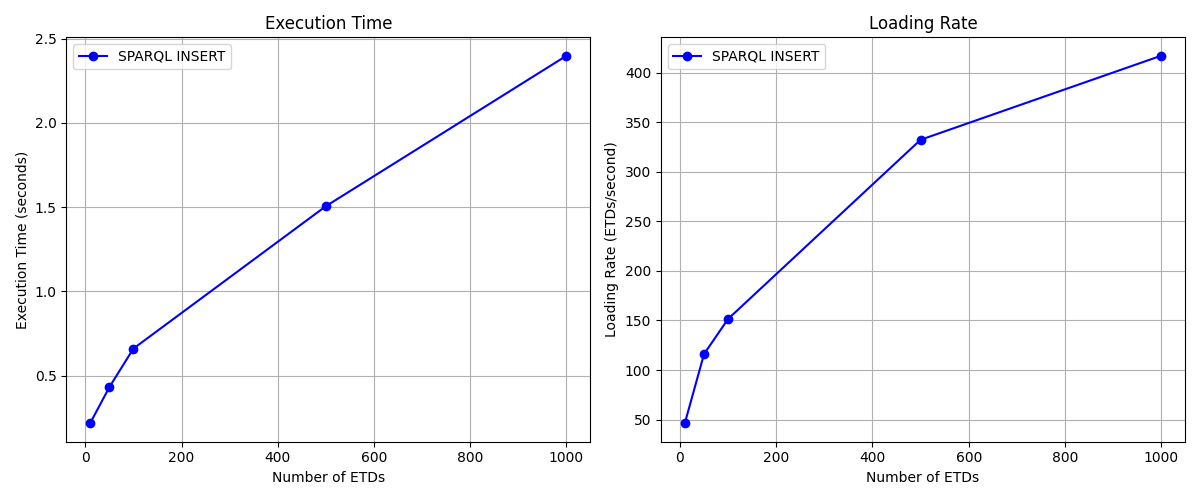
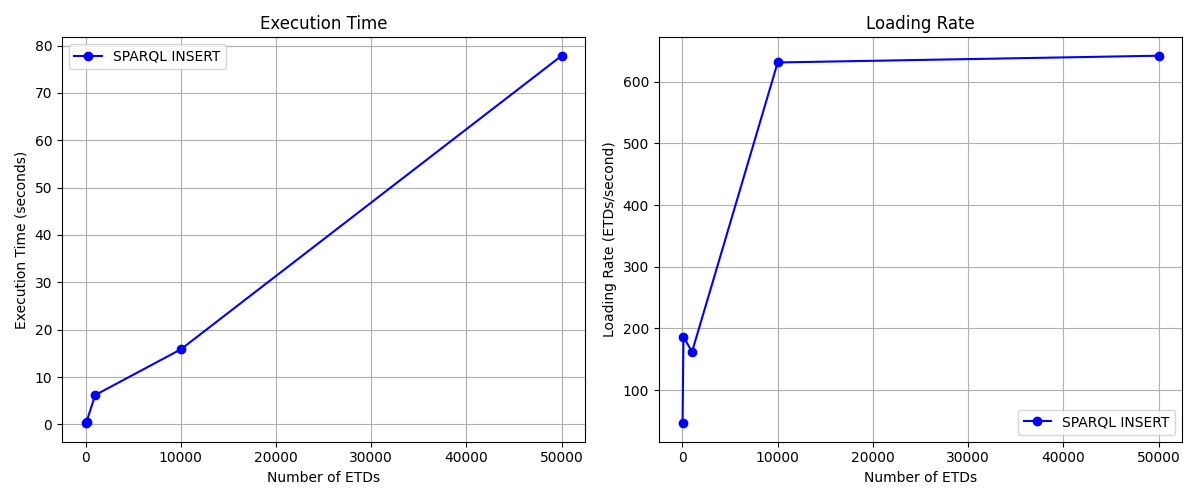
deleted insertion permission check function, obtained benchmark data with increased test _sizes

diff --git a/ETDLoader.py b/ETDLoader.py
@@ -13,62 +13,6 @@ username = "dba"
 password = "admin"
 batch_size = 100  # Reduced from 1000 to avoid 413 errors
 
-def check_insert_permissions():
-    """Check if we have permissions to insert data into the graph"""
-    print("Checking insert permissions...")
-    
-    # Try to insert a simple test triple
-    test_id = f"permission_test_{int(time.time())}"
-    test_uri = f"http://localhost:8890/test/{test_id}"
-    insert_query = f"""
-    INSERT DATA {{ 
-      GRAPH <{graph_URI}> {{ 
-        <{test_uri}> <http://localhost:8890/schemas/ETDs/test> "Permission test" . 
-      }}
-    }}
-    """
-    
-    try:
-        response = send_sparql_query(insert_query)
-        if response.status_code == 200:
-            print("Insert permission check: Success")
-            
-            # Verify the triple was actually inserted
-            check_query = f"""
-            SELECT ?o FROM <{graph_URI}>
-            WHERE {{ <{test_uri}> <http://localhost:8890/schemas/ETDs/test> ?o }}
-            """
-            verify_response = send_sparql_query(check_query)
-            
-            if verify_response.status_code == 200:
-                results = verify_response.json()
-                bindings = results.get("results", {}).get("bindings", [])
-                if bindings:
-                    print(f"Successfully verified inserted triple: {bindings[0].get('o', {}).get('value', '')}")
-                    
-                    # Clean up the test triple
-                    delete_query = f"""
-                    DELETE DATA {{ 
-                      GRAPH <{graph_URI}> {{ 
-                        <{test_uri}> <http://localhost:8890/schemas/ETDs/test> "Permission test" . 
-                      }}
-                    }}
-                    """
-                    send_sparql_query(delete_query)
-                    return True
-                else:
-                    print("WARNING: Insert query succeeded, but the triple was not found!")
-                    return False
-            else:
-                print(f"Failed to verify inserted triple: {verify_response.status_code}")
-                return False
-        else:
-            print(f"Insert permission check: Failed with status {response.status_code}")
-            return False
-    except Exception as e:
-        print(f"Insert permission check: Exception {str(e)}")
-        return False
-
 def send_sparql_query(query):
     """Send a SPARQL query to the Virtuoso endpoint"""
     
@@ -325,15 +269,6 @@ def main():
     if not os.path.exists(args.json_file):
         print(f"Error: JSON file not found: {args.json_file}")
         return False
-    
-    # Check insert permissions before proceeding
-    if not check_insert_permissions():
-        print("Failed permission check - you may not have write access to the database.")
-        if not args.force:
-            print("To attempt loading anyway, use the --force flag.")
-            return False
-        else:
-            print("Proceeding with load attempt despite permission check failure (--force flag used).")
     
     return load_etds_from_json(args.json_file, args.max_batches, args.workers)
 

diff --git a/test_etd_loader.py b/test_etd_loader.py
@@ -341,7 +341,7 @@ def main():
     
     if args.benchmark:
         # Run benchmark with multiple sizes
-        test_sizes = [10, 50, 100, 500, 1000]
+        test_sizes = [10, 100, 1000, 10000, 50000]
         results = benchmark(test_sizes, cleanup=cleanup)
         plot_results(results)
     else:
